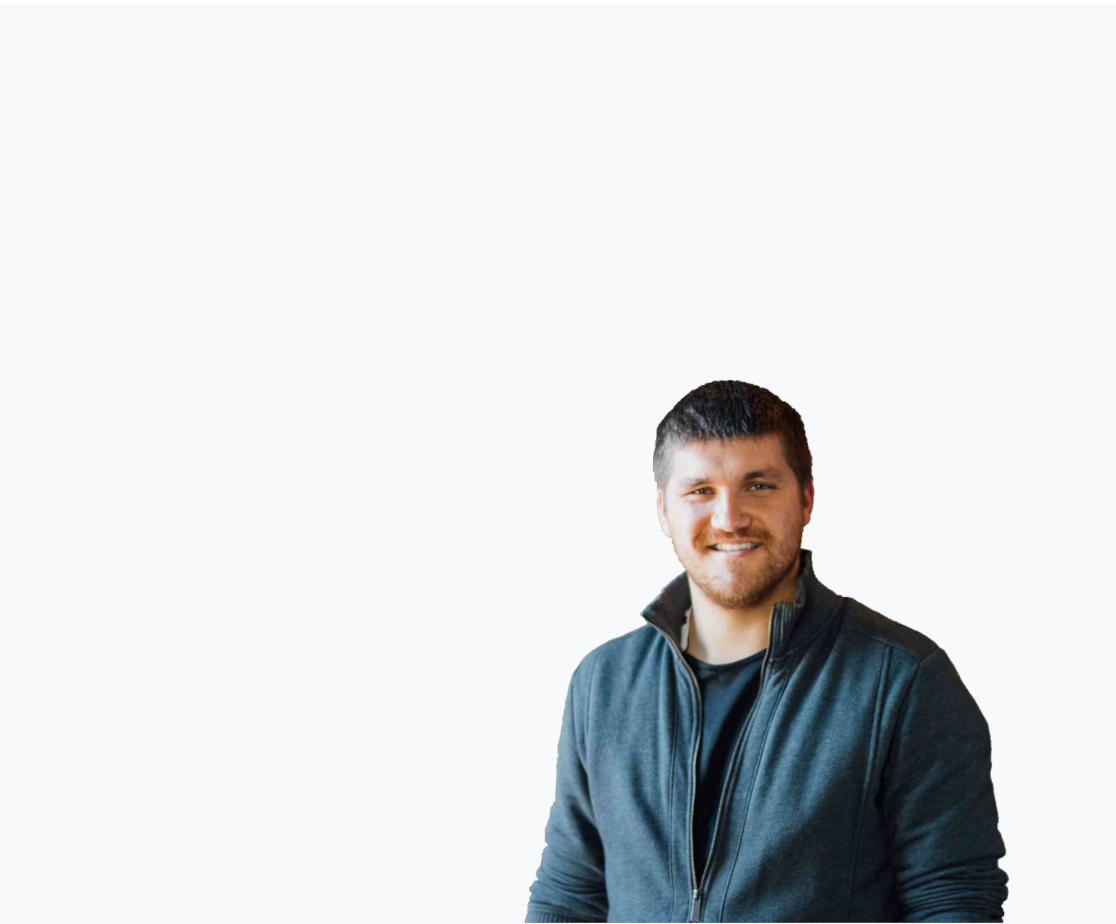
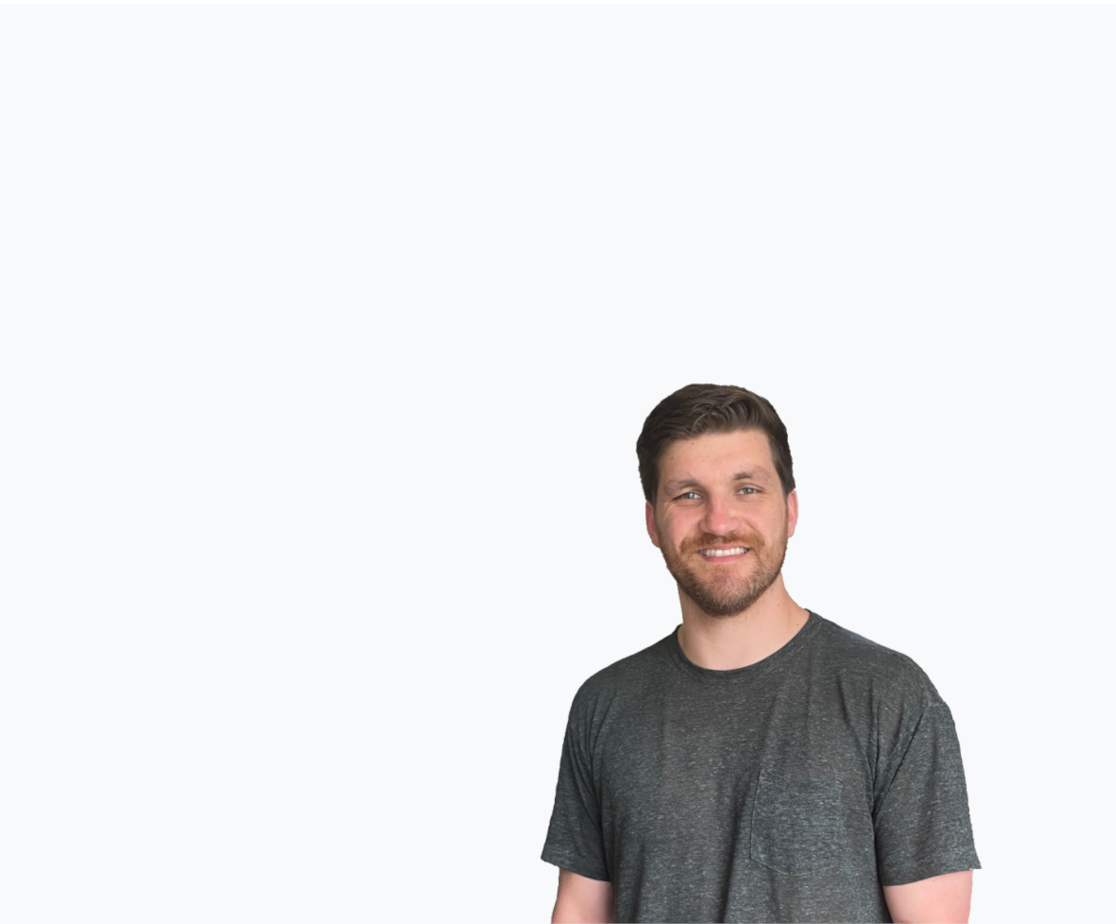
switching profile pic

Changed region(s): [[0.457, 0.3939, 0.914, 1.0]]

diff --git a/index.html b/index.html
@@ -102,16 +102,11 @@
           <div class="col-12 mb-4 position-relative">
             <h2 class="section-title">About</h2>
           </div>
-          <div class="col-lg-4 order-1 order-lg-3 mb-4 mb-lg-0">
-            <div>
-            <img src="images/SethProfilePic.png" alt="Seth Profile Picture" class="img-fluid">
-            </div>
-          </div>
-          <div class="col-lg-4 order-2 order-lg-1">
+          <div class="col-lg-6 order-2 order-lg-1">
             <p>I am a professional automation engineer with a Bachelor's degree in Computer Science. I have been working in this field for several years and have developed a strong skill set that allows me to excel in my work. I have a passion for leading teams of automation engineers and driving projects to success.</p>
             <p>My goal as an automation engineer is to leverage my technical expertise and leadership skills to ensure that the teams I lead deliver high-quality work while continuously improving processes and workflows. I believe that my ability to balance a strong work ethic with a positive attitude and an enthusiastic approach to life helps me to be successful both personally and professionally.</p>
           </div>
-          <div class="col-lg-4 order-3 order-lg-2">
+          <div class="col-lg-6 order-3 order-lg-2">
             <p>When I'm not working, I enjoy playing and creating board games, playing soccer, volleyball, and bar trivia. I recently have taken an interest in exploring new challenges in fitness through Crossfit. My personal interests help me to stay creative, maintain a positive attitude, and approach challenges with a problem-solving mindset.</p>
             <p>Thank you for taking the time to learn a bit about me. I look forward to connecting and working with others who share my passion for technology, leadership, and a well-balanced life.</p>
           </div>
